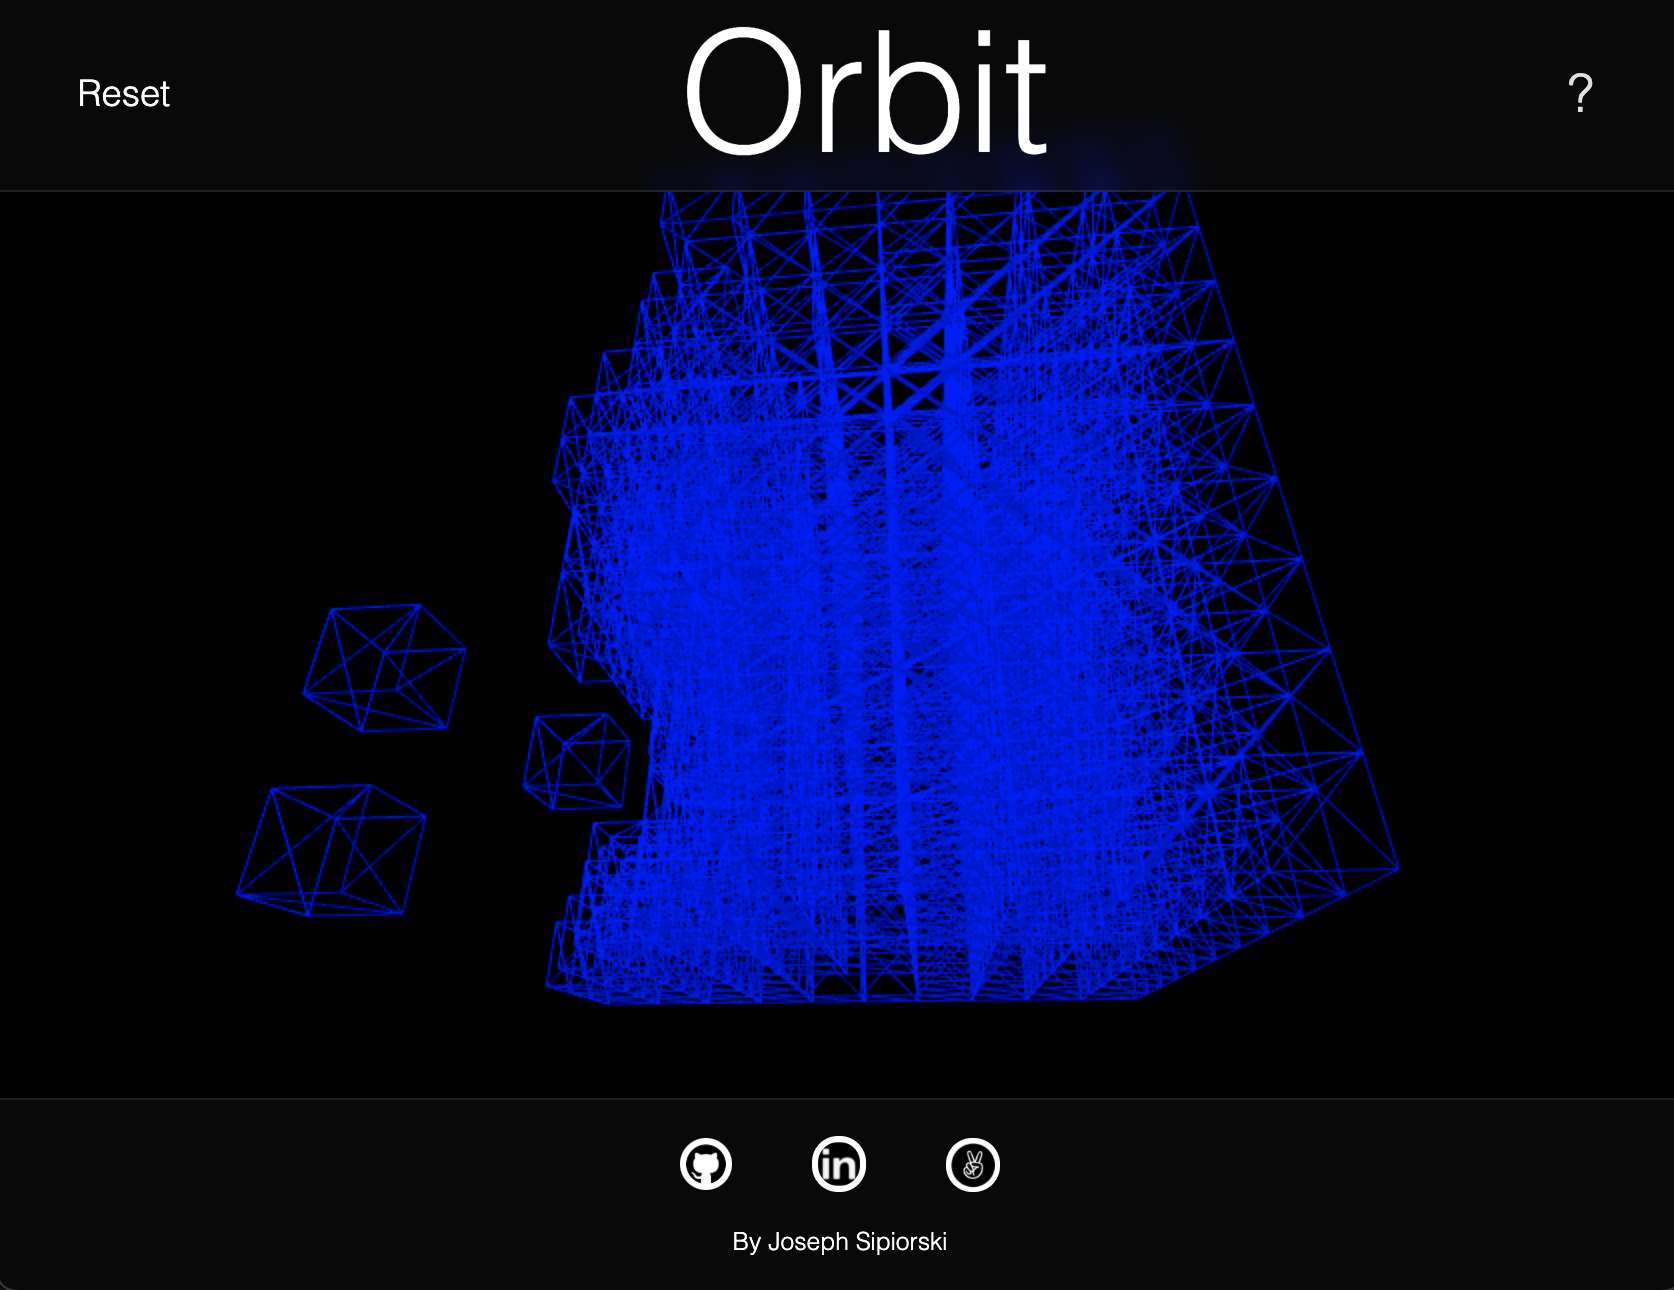
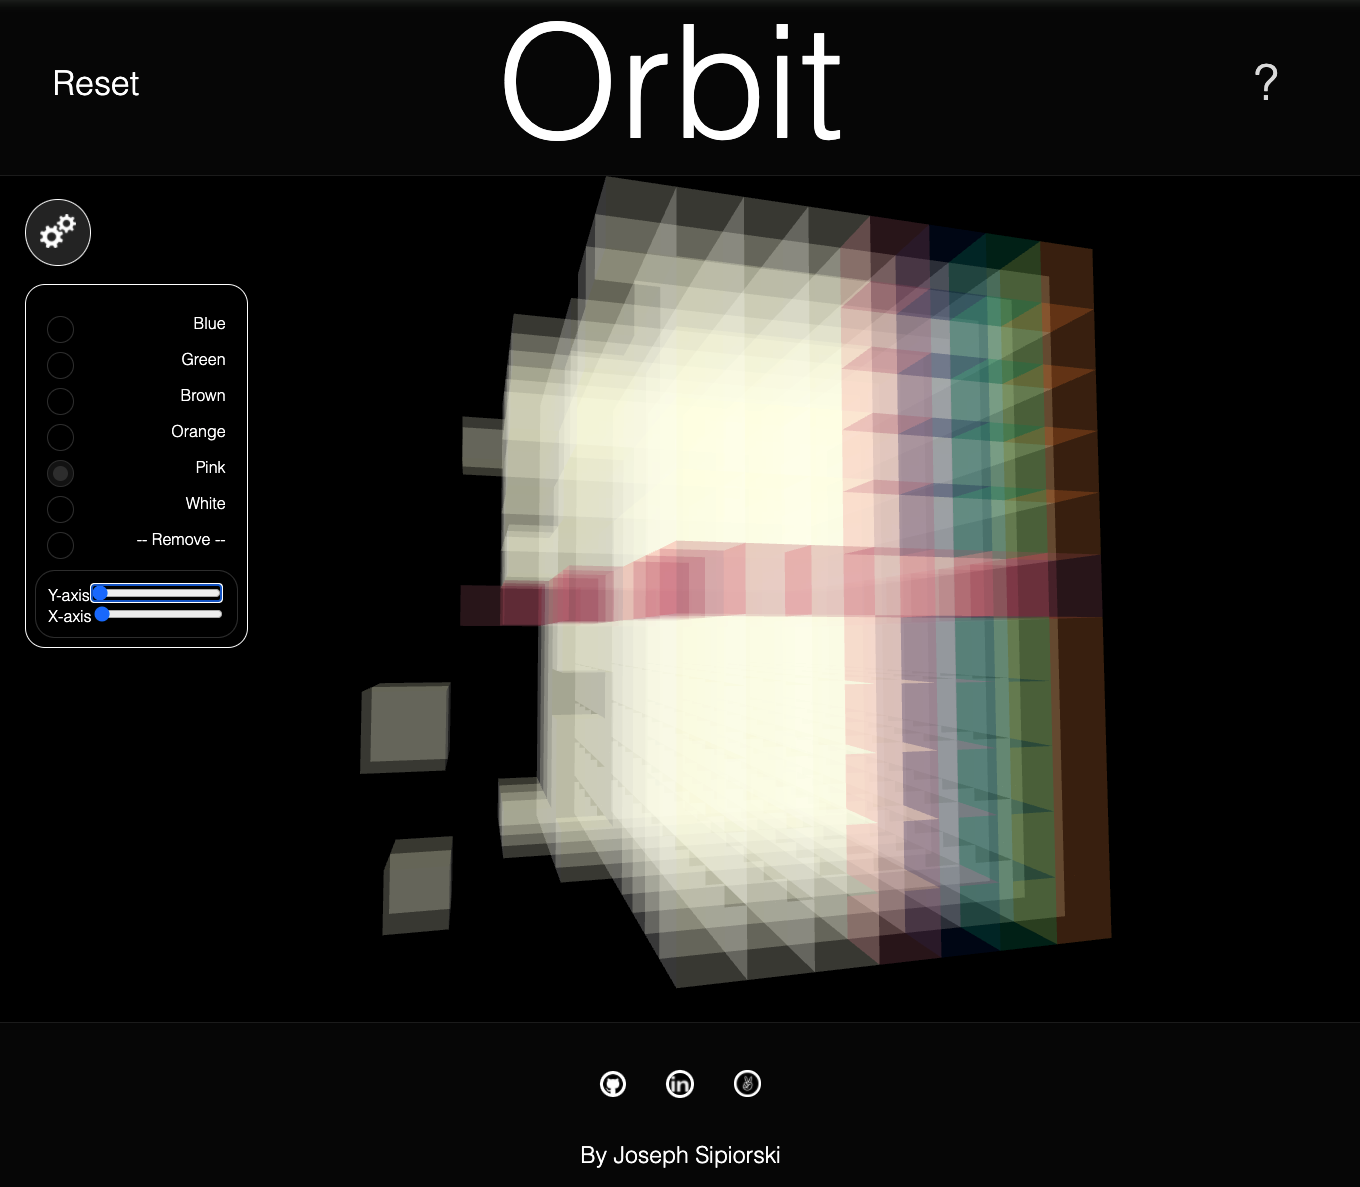
update README

diff --git a/src/scripts/build.js b/src/scripts/build.js
@@ -1,4 +1,4 @@
-import { setColor, changeInput } from '../index';
+import { setColor, changeInput, noRotate } from '../index';
 
 export const build = () => {
 
@@ -465,10 +465,20 @@ labelx.appendChild(xInput)
 orbitControlls.appendChild(labelx)
 // --------- x-axis ----------------
 
+// --------- stop rotation ----------------
+let stopRotation = document.createElement('div')
+stopRotation.className = 'stopRotation'
+stopRotation.innerText = 'Stop Rotation'
+stopRotation.addEventListener('click', (e) => noRotate(e))
+// --------- stop rotation ----------------
+
+
+
 // ------------ robit controlls -------------------
 
 settingsDrop.appendChild(colorsdiv);
 settingsDrop.appendChild(orbitControlls);
+settingsDrop.appendChild(stopRotation);
 optionDiv.appendChild(settingsDrop)
 /* -------------- settings -------------------------------I */
 

diff --git a/src/index.js b/src/index.js
@@ -11,6 +11,9 @@ let theSize = 11;
 let yRotate = .00;
 let xRotate = .00;
 
+let yRotateOld = .00;
+let xRotateOld = .00;
+
 var raycaster = new THREE.Raycaster();
 var mouse = new THREE.Vector2();
 
@@ -208,6 +211,21 @@ export function changeInput(event){
     
 }
 
+export function noRotate(e){
+    e.preventDefault();
+
+    yRotateOld = yRotate
+    xRotateOld = xRotate
+
+    if(yRotate !== 0|| xRotate !== 0){
+        yRotate = 0;
+        xRotate = 0;
+    } else {
+        yRotate = yRotateOld;
+        xRotate = xRotateOld;
+
+    }
+}
 
 var onClick = function(event) {
     event.preventDefault();

diff --git a/css/styles.css b/css/styles.css
@@ -484,11 +484,20 @@ p.close-x:hover {
   100% { opacity: 0; }
 
 }
+
 /* -------------- settings -------------------------------I */
 
 /* -------------- options -------------------------------I */
 
+.stopRotation{
+    border: white solid 1px;    
+    border-radius: 16px;
+    padding: 10px;
+}
 
+.stopRotation:hover{
+    cursor: pointer;
+}
 
 /* -------------- input type range fix -------------------------------I */
 

diff --git a/README.md b/README.md
@@ -8,11 +8,13 @@ Orbit is a live interactive 3D drawing app that will allow you to navigate aroun
 
 ## How it works
 
-Users will be able to rotate the cube by dragging it in the desired direction with left clicks, additionally by using the scroll users will be able to navigate into or out of the cube.
+Users will be able to rotate the cube by dragging it in the desired direction with left clicks, additionally by using the scroll users will be able to navigate into or out of the cube. Rotation can also be continueous in the X or Y direction by using the respective rotation seeting in the settings menue.
 
 Users can create shapes out of the cube by removing smaller cubes from the larger cube, this can be done by using left click or by holding the “d” key; left click will remove a single cube whereas holding the “d” key will remove any cube the mouse is currently hovering over and will continue to remove cubes as the cube or mouse moves beneath it. The “s” key can be held down to prevent any cube removal functionality, it will prevent the left click from removing cubes allowing the user to navigate without a fear of unintentionally removing cubes.
 
-![wire frame image](src/images/screenshot.png)
+Users can also select a color from the settings menue and color cubes with the same "d" key and left click.
+
+![wire frame image](src/images/gifOrbit.gif)
 ![wire frame image](src/images/screenshot2.png)
 
 The long term goal of this project will be to eventually draw within a 3D grid with different options such as rotating the 3D grid while drawing as well as changing colors of specific cubes and adding additional cubes.
@@ -29,7 +31,7 @@ The cubes are removed by relocating cubes by setting new instanceMatrix points f
 
 ```javascript
 keyDown = function(event) {
-    event.preventDefault();
+   event.preventDefault();
 
     if(event.key === "d"){
 
@@ -39,14 +41,27 @@ keyDown = function(event) {
 
         var newMatrix = new THREE.Matrix4();
         newMatrix.setPosition(-1000, -10000, -1000);
+        
 
         if ( intersection.length > 0 ) {
 
             const instanceId = intersection[ 0 ].instanceId;
 
-            newCube.setMatrixAt( instanceId, newMatrix )
-            newCube.instanceMatrix.needsUpdate = true;
+             if(currentColor === 'remove'){
+                mesh.setMatrixAt( instanceId, newMatrix )
+                mesh.instanceMatrix.needsUpdate = true;
+            } else if (currentColor === 'not selected yet'){
 
+                gearsDiv = document.getElementById('gear-outside-div-1')
+                gearsDiv.classList.add('gears-div-pulse')
+                
+                setTimeout(() => {
+                    gearsDiv.classList.remove('gears-div-pulse')
+                }, 1800)
+            } else {
+                mesh.setColorAt( instanceId, color.setHex(currentColor));
+                mesh.instanceColor.needsUpdate = true;
+            }
         }
 
         renderer.render(scene, camera);
@@ -58,6 +73,6 @@ keyDown = function(event) {
 ```
 
 ## Bonus Features
-* Allow user to change the color of cubes as well as add cubes back
+* Allow user to add cubes back
 * Allow users to change from wireframe to solid
 * Allow users to download 3D shape that they created
